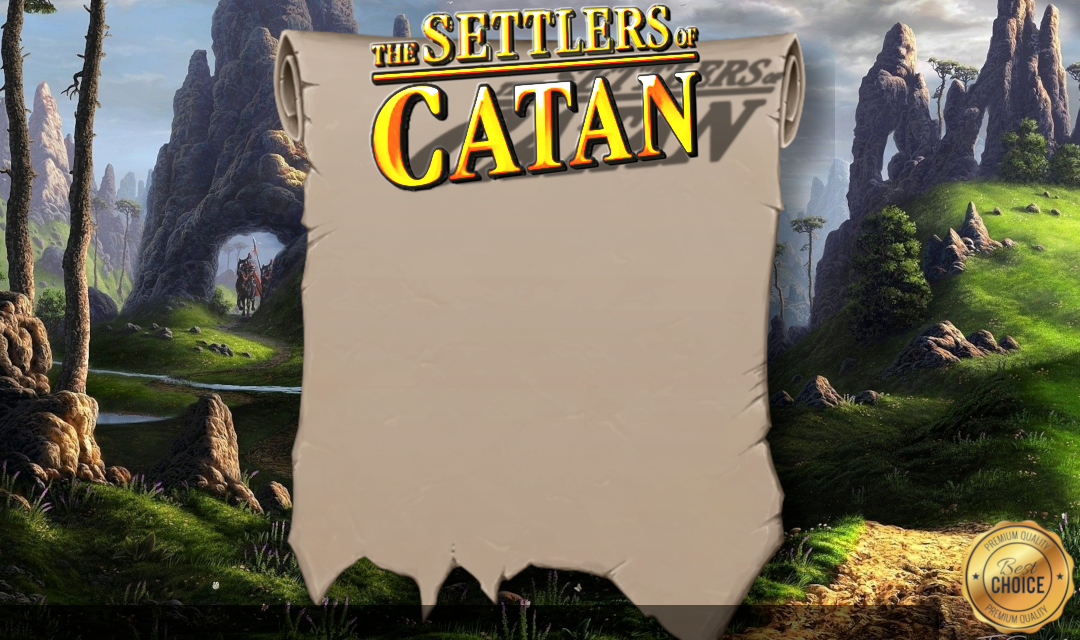
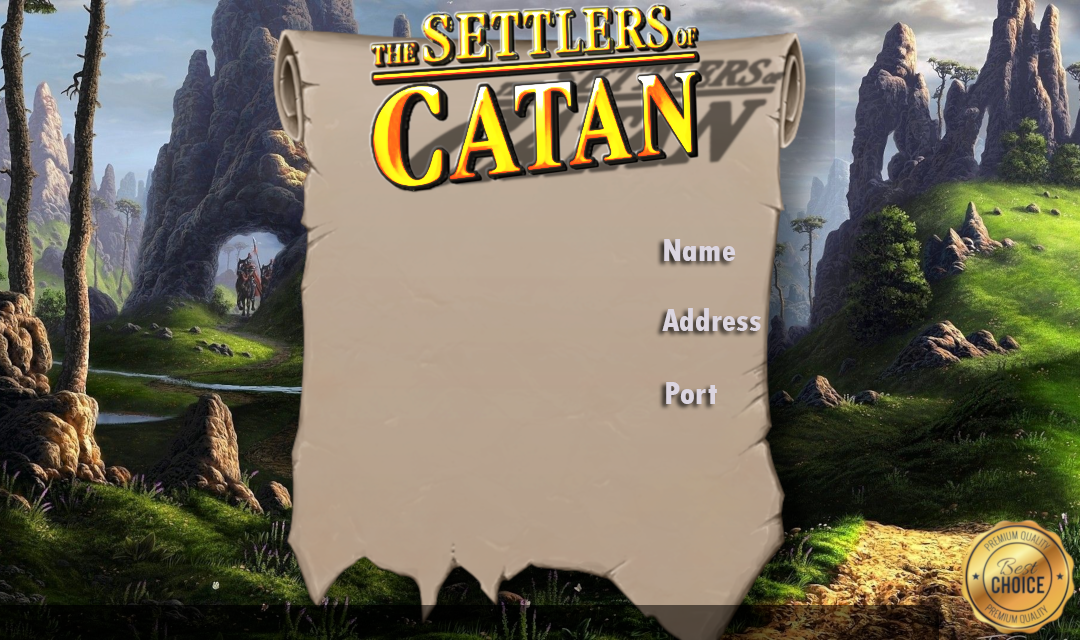
ignore not interesting packet!

Changed region(s): [[0.6111, 0.4688, 0.7028, 0.5312], [0.6111, 0.375, 0.7028, 0.4375], [0.6111, 0.5938, 0.6722, 0.6562]]

diff --git a/Catan/CatanNetworking/NetworkingStates/Idle.cpp b/Catan/CatanNetworking/NetworkingStates/Idle.cpp
@@ -93,20 +93,23 @@ Idle::update(void) {
 	CatanEvent* event = networking.getGame().getNextEvent();
 	NetworkPacket* packet = networking.getEventPacket(event);
 
-	/* Veo si alguno puede manejar */
-	for (HandshakingState* state : handlers) {
+	/* Valido que sea de interes el evento */
+	if (packet) {
+		/* Veo si alguno puede manejar */
+		for (HandshakingState* state : handlers) {
 
-		/* Verifico que el handler sea teller o both */
-		if (state->isHeader(packet->getHeader(), ProtocolState::ProtocolType::TELLER) || state->isHeader(packet->getHeader(), ProtocolState::ProtocolType::BOTH)) {
+			/* Verifico que el handler sea teller o both */
+			if (state->isHeader(packet->getHeader(), ProtocolState::ProtocolType::TELLER) || state->isHeader(packet->getHeader(), ProtocolState::ProtocolType::BOTH)) {
 
-			/* Paso a ese estado! */
-			networking.changeState(state, "[Networking] - Idle -> Evento recibido con la rutina update. Dispatching...");
-			networking.update();
-			return;
+				/* Paso a ese estado! */
+				networking.changeState(state, "[Networking] - Idle -> Evento recibido con la rutina update. Dispatching...");
+				networking.update();
+				return;
+			}
 		}
-	}
 
-	/* No detecto nada! Error :'( */
-	networking.setError("[Networking] - Idle -> Hubo un error en el protocolo, peticion no reconocida.");
-	networking.changeState(CatanNetworking::States::NET_ERROR);
+		/* No detecto nada! Error :'( */
+		networking.setError("[Networking] - Idle -> Hubo un error en el protocolo, peticion no reconocida.");
+		networking.changeState(CatanNetworking::States::NET_ERROR);
+	}
 }

diff --git a/Catan/CatanNetworking/NetworkHandlers/NetworkClient.cpp b/Catan/CatanNetworking/NetworkHandlers/NetworkClient.cpp
@@ -51,6 +51,7 @@ void NetworkClient::
 aconnect(string ip, unsigned int port) {
 
 	if (!isConnected()) {
+		boost::asio::ip::tcp::resolver::iterator endpoint;
 
 		/* Almaceno la informacion del intento de conexion
 		* para establecer un vinculo con los handlers hasta
@@ -73,7 +74,16 @@ aconnect(string ip, unsigned int port) {
 		if (state == States::IDLE) {
 
 			/* Envio la tarea de conectarse al io_service, y paso a estado de connecting */
-			boost::asio::ip::tcp::resolver::iterator endpoint = resolver->resolve(boost::asio::ip::tcp::resolver::query(ip, to_string(port)));
+			try {
+				endpoint = resolver->resolve(boost::asio::ip::tcp::resolver::query(ip, to_string(port)));
+			}
+			catch (...) {
+				/* En caso de ser invalido el endpoint. Se levanta el error */
+				this->status = false;
+				this->error = "Informacion para conexion invalida.";
+				return;
+			}
+
 			boost::asio::async_connect(*socket, endpoint, bind(&NetworkClient::connect_fist, this, _1, _2));
 			state = States::CONNECTING;
 		}

diff --git a/Catan/CatanGui/CatanLauncher/MainMenu/MainMenu.cpp b/Catan/CatanGui/CatanLauncher/MainMenu/MainMenu.cpp
@@ -112,9 +112,9 @@ MainMenu(CatanLauncher& _launcher) : WindowUI("mainWindow", 1080, 640), launcher
 	this->attachComponent(message);
 
 	/* Posicion de componentes */
-	MODEL(nameBox, TextUI*)->setPosition(365, 230);
-	MODEL(ipBox, TextUI*)->setPosition(365, 300);
-	MODEL(portBox, TextUI*)->setPosition(365, 370);
+	MODEL(nameBox, TextUI*)->setPosition(330, 230);
+	MODEL(ipBox, TextUI*)->setPosition(330, 300);
+	MODEL(portBox, TextUI*)->setPosition(330, 370);
 	MODEL(connectButton, MouseUI*)->setPosition(400, 440);
 	MODEL(cancelButton, MouseUI*)->setPosition(400, 440);
 	MODEL(status, FrameUI*)->setPosition(0, 0);
